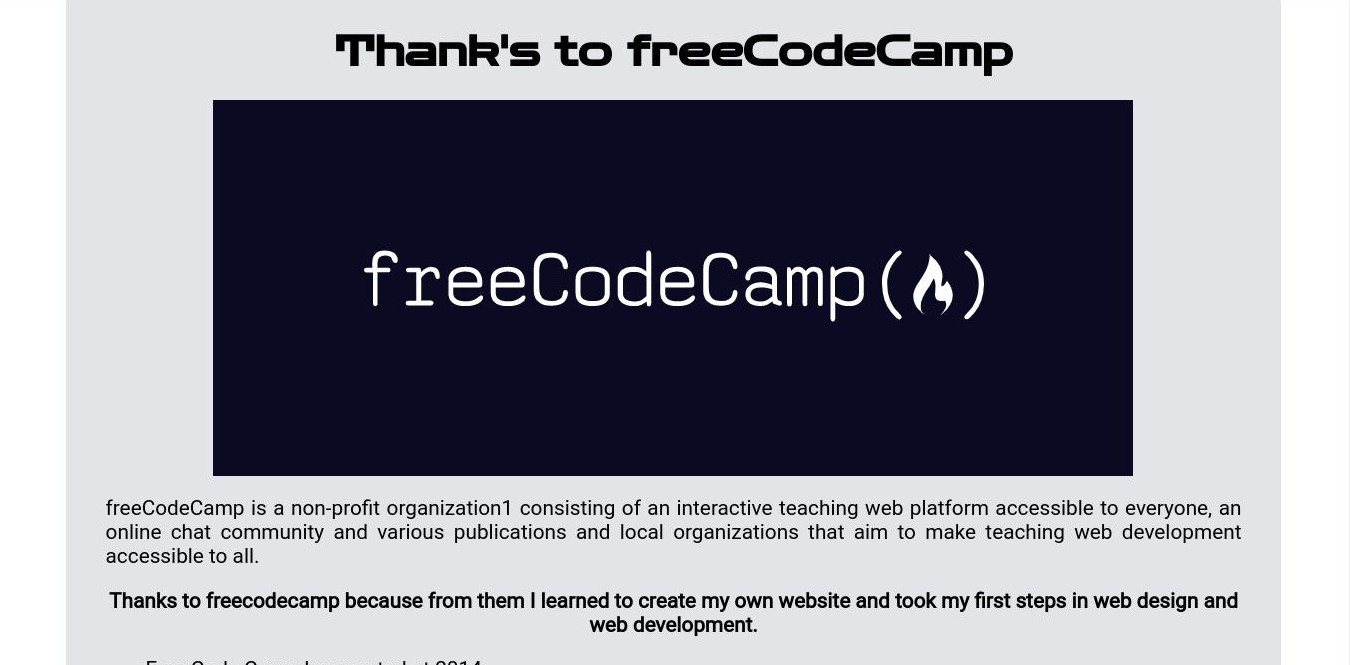
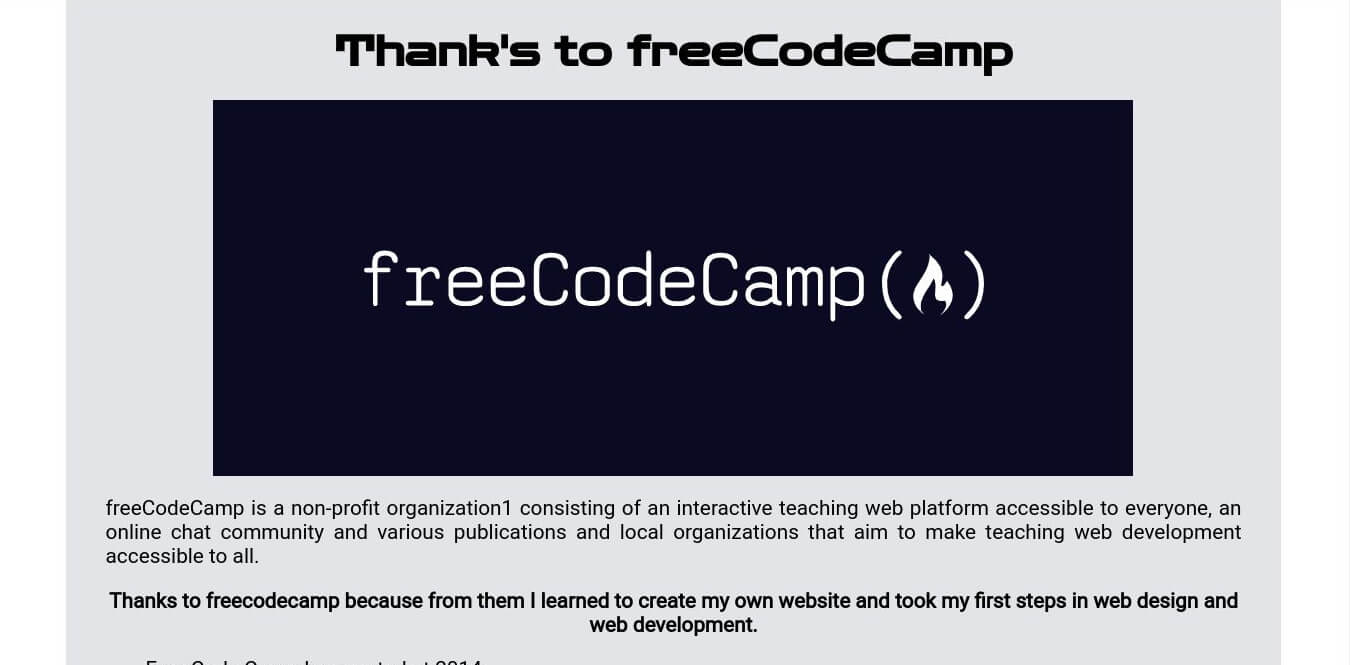
projects links and align of header.

diff --git a/index.html b/index.html
@@ -44,25 +44,25 @@
             <div class="main--projects-section">
                 <div class="project">
                     <h3 class="project-title">Clandestino</h3>
-                    <a href="">
+                    <a href="https://github.com/Sergio99778/clandestino">
                         <img class="project--image" src="./img/projects/clandestino.jpg" alt="Clandestino project">
                     </a>
                 </div>
                 <div class="project">
                     <h3 class="project-title">Places react</h3>
-                    <a href="">
+                    <a href="https://github.com/Sergio99778/places-react">
                         <img class="project--image" src="./img/projects/places.jpg" alt="Places project">
                     </a>
                 </div>
                 <div class="project">
                     <h3 class="project-title">Landing page</h3>
-                    <a href="">
+                    <a href="https://github.com/Sergio99778/responsive-freeCodeCamp">
                         <img class="project--image" src="./img/projects/landing-page.jpg" alt="Landing page project">
                     </a>
                 </div>
                 <div class="project">
                     <h3 class="project-title">Tribute page</h3>
-                    <a href="">
+                    <a href="https://sergio99778.github.io/responsive-freeCodeCamp/Build-a-Tribute-Page/index.html">
                         <img class="project--image" src="./img/projects/tribute.jpg" alt="Tribute project">
                     </a>
                 </div>

diff --git a/styles/styles.css b/styles/styles.css
@@ -177,6 +177,10 @@ main {
   list-style: none;
 }
 
+.main--introduction-section {
+  width: 90%;
+}
+
 .main--language-section .languages-list li,
 .main--tools-section .tools-list li {
   display: inline-flex;
